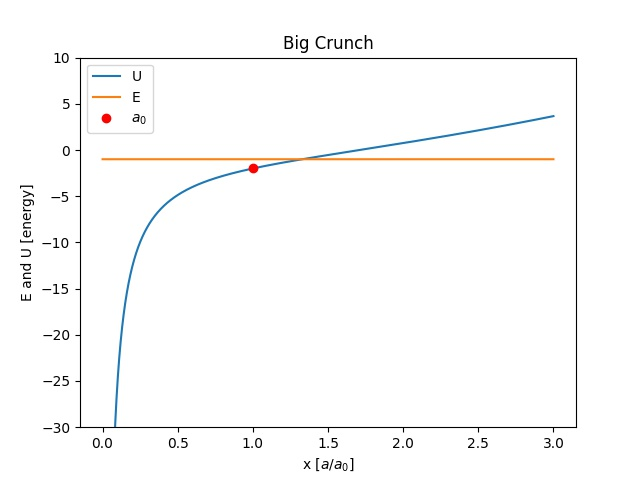
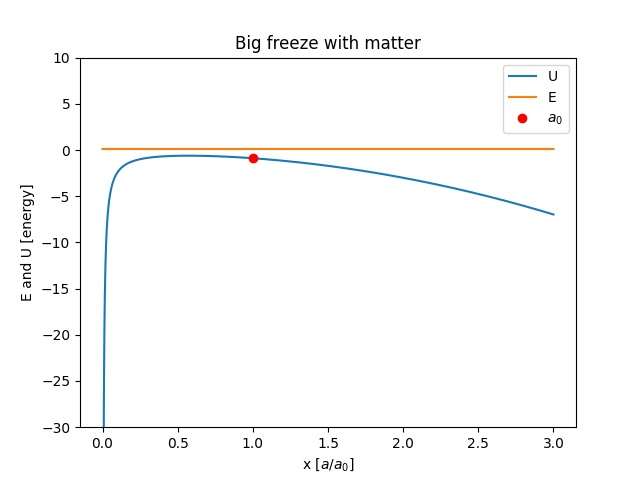
Added comments in script 6,7

diff --git a/Project1/proj1_2.py b/Project1/proj1_2.py
@@ -1,27 +1,71 @@
 import matplotlib.pyplot as plt
 import numpy as np
 
-def U(x, om, ow):
+def U(x, om, ow, w):
     return -(om/x + ow*x**(-(1+3*w)))
 
 def E(x, om, ow):
     return 1 - om - ow + x - x
 
-x = np.linspace(0.001,1,100)
-omega_m = 0
+x = np.linspace(0,3,3001)
+a0index = int(np.where( np.abs(x - 1.) < 1e-5 )[0])
+
+
+omega_m = 0.5
 omega_w = 3
-omega_m2 = 2
-omega_w2 = 1
 w = -1
 
+omega_m2 = 2.5
+omega_w2 = -0.5
+w2 = -1
+
+omega_m3 = 0.3
+omega_w3 = 0.64
+w3 = -1
 
 
-plt.plot(x,U(x, omega_m, omega_w), label = 'U')
-plt.plot(x,U(x, omega_m2, omega_w2), label = 'U2')
-plt.plot(x, E(x , omega_m, omega_w), label = 'E')
-plt.plot(x, E(x, omega_m2, omega_w2), label = 'E2')
 
-plt.xlabel("x")
+#Case 1
+plt.plot(x,U(x, omega_m, omega_w, w), label = 'U')
+plt.plot(x, E(x, omega_m, omega_w), label = 'E')
+plt.plot( 1, U(x, omega_m, omega_w, w)[a0index], "ro", label=r"$a_0$" )
+plt.ylim(-30,10)
+
+plt.xlabel(r"x $[a/a_0]$")
 plt.ylabel("E and U [energy]")
 plt.legend()
+#plt.title(r"Case 1: w = {}, $\Omega_{m 0}$ = {}, $\Omega_{w 0}$ = {} ".format(w, omega_m, omega_w))
+plt.title("No Big Bang")
+plt.savefig("images/case1_2.jpeg")
+plt.show()
+
+
+
+#Case two
+plt.plot(x,U(x, omega_m2, omega_w2, w2), label = 'U')
+plt.plot(x, E(x, omega_m2, omega_w2), label = 'E')
+plt.plot( 1, U(x, omega_m2, omega_w2, w2)[a0index], "ro", label=r"$a_0$" )
+plt.ylim(-30,10)
+plt.xlabel(r"x $[a/a_0]$")
+plt.ylabel("E and U [energy]")
+
+plt.legend()
+#plt.title(r"Case 2: w = {}, $\Omega_{m 0}$ = {}, $\Omega_{w 0}$ = {} ".format(w2, omega_m2, omega_w2))
+plt.title("Big Crunch")
+plt.savefig("images/case2_2.jpeg")
+plt.show()
+
+#Case 3
+plt.plot(x,U(x, omega_m3, omega_w3, w3), label = 'U')
+plt.plot(x, E(x, omega_m3, omega_w3), label = 'E')
+plt.plot( 1, U(x, omega_m3, omega_w3, w3)[a0index], "ro", label=r"$a_0$" )
+plt.ylim(-30,10)
+
+plt.xlabel(r"x $[a/a_0]$")
+plt.ylabel("E and U [energy]")
+#plt.title(r"Case 3: w = {}, $\Omega_{m 0}$ = {}, $\Omega_{w 0}$ = {} ".format(w3, omega_m3, omega_w3))
+plt.title("Big Freeze")
+plt.legend()
+plt.savefig("images/case3_2.jpeg")
+
 plt.show()

diff --git a/Project1/proj1_8.py b/Project1/proj1_8.py
@@ -11,17 +11,15 @@ x = np.linspace(0,3,3001)
 a0index = int(np.where( np.abs(x - 1.) < 1e-5 )[0])
 
 
-omega_m = 0.5
-omega_w = 3
-w = -1
+omega_m = 0
+omega_w = 0.377
+w = -1.5
 
-omega_m2 = 2.5
-omega_w2 = -0.5
-w2 = -1
+omega_m2 = 0.24
+omega_w2 = 0.65
+w2 = -1.05
 
-omega_m3 = 0.3
-omega_w3 = 0.64
-w3 = -1
+
 
 
 
@@ -35,7 +33,7 @@ plt.xlabel(r"x $[a/a_0]$")
 plt.ylabel("E and U [energy]")
 plt.legend()
 #plt.title(r"Case 1: w = {}, $\Omega_{m 0}$ = {}, $\Omega_{w 0}$ = {} ".format(w, omega_m, omega_w))
-plt.title("No Big Bang")
+plt.title("Big freeze with no matter")
 plt.savefig("images/case1_8.jpeg")
 plt.show()
 
@@ -51,21 +49,6 @@ plt.ylabel("E and U [energy]")
 
 plt.legend()
 #plt.title(r"Case 2: w = {}, $\Omega_{m 0}$ = {}, $\Omega_{w 0}$ = {} ".format(w2, omega_m2, omega_w2))
-plt.title("Big Crunch")
+plt.title("Big freeze with matter")
 plt.savefig("images/case2_8.jpeg")
-plt.show()
-
-#Case 3
-plt.plot(x,U(x, omega_m3, omega_w3, w3), label = 'U')
-plt.plot(x, E(x, omega_m3, omega_w3), label = 'E')
-plt.plot( 1, U(x, omega_m3, omega_w3, w3)[a0index], "ro", label=r"$a_0$" )
-plt.ylim(-30,10)
-
-plt.xlabel(r"x $[a/a_0]$")
-plt.ylabel("E and U [energy]")
-#plt.title(r"Case 3: w = {}, $\Omega_{m 0}$ = {}, $\Omega_{w 0}$ = {} ".format(w3, omega_m3, omega_w3))
-plt.title("Big Freeze")
-plt.legend()
-plt.savefig("images/case3_8.jpeg")
-
 plt.show()

diff --git a/Project1/proj1_6.py b/Project1/proj1_6.py
@@ -135,10 +135,10 @@ def xi2(z,omega_m, omega_w):
 
 size = len(redshift)
 
-inter = 300
+inter = 700
 
 omega_mo = np.linspace(0,1.5,inter)
-omega_wo = np.linspace(0,1.5,inter)
+omega_wo = np.linspace(-2,3,inter)
 
 X,Y = np.meshgrid(omega_mo, omega_wo)
 xi2val = np.zeros( ( len(omega_mo),len(omega_wo) ) )
@@ -146,6 +146,9 @@ xi2val = np.zeros( ( len(omega_mo),len(omega_wo) ) )
 
 
 #Run simulation
+#Remove hashtag in the run function as well as in
+#the package section to have progress bar in terminal 
+
 
 def run():
     #bar = Bar('Processing', max=inter)

diff --git a/Project1/proj1_7.py b/Project1/proj1_7.py
@@ -144,6 +144,8 @@ X,Y = np.meshgrid(omega_wo, w)
 xi2val = np.zeros( ( len(omega_wo),len(w) ) )
 
 #Run simulation
+#Remove hashtag in the run function as well as in
+#the package section to have progress bar in terminal 
 
 def run():
     #bar = Bar('Processing', max=inter)
